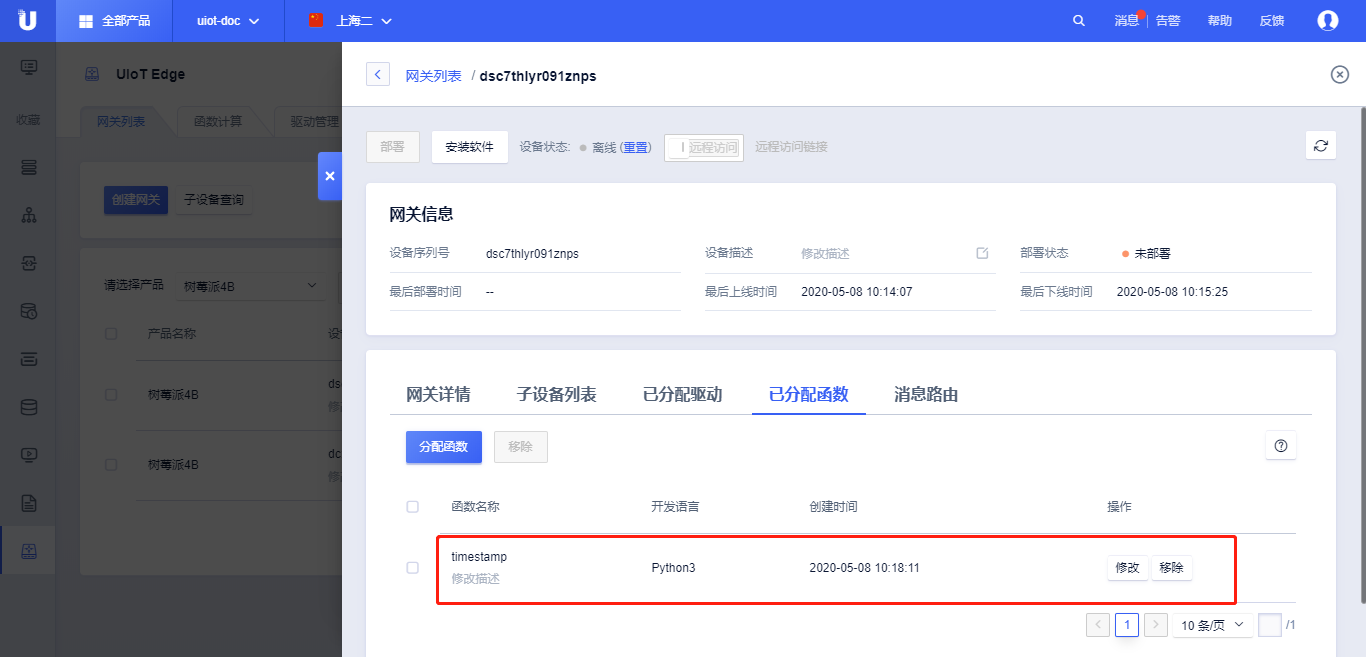
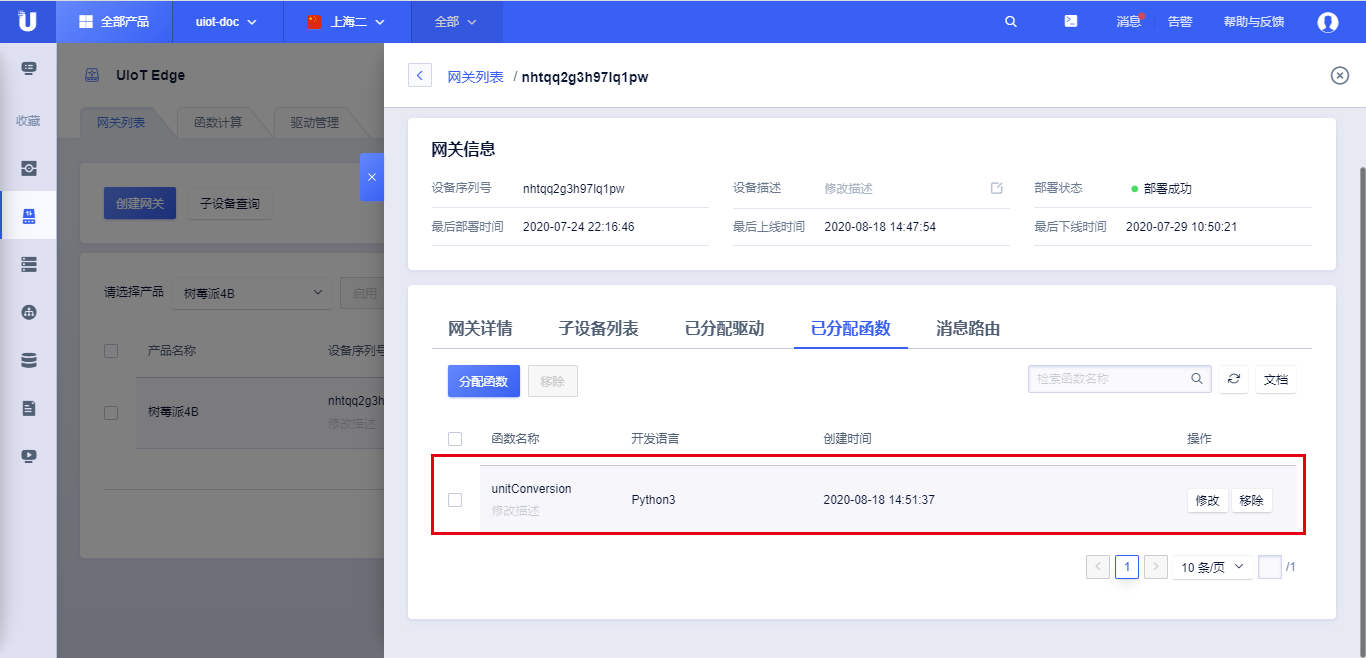
add images for dlt645 and best practice

diff --git a/best_practices/get_temp_humi_with_offical_modbus.md b/best_practices/get_temp_humi_with_offical_modbus.md
@@ -267,19 +267,21 @@
    
    """
    设备上云数据筛选示例
-   1. 子设备往函数计算发送一个 json 消息，格式如下
+   1. 根据驱动配置，函数计算收到子设备的json 消息，格式如下
    {
-       "temperature": 26.5,
-       "humidity": 68
+       "data":{
+       	temperature": 26.5,
+       	"humidity": 68
+       }
    }
-   表示 id 为 123456，温度为 120 摄氏度
    2. 函数计算根据条件筛选数据，实例中的筛选条件为
-   celsius > 100
+   temperature > 25
    3. 将摄氏度转换为华氏度
-   celsius -> fahrenheit
    {
-       "temperature": 79.7,
-       "humidity": 68
+       "data":{
+       	"temperature": 79.7,
+       	"humidity": 68
+       }
    }
    4. 注意，消息流转需要配置相应的消息路由
    """
@@ -290,19 +292,19 @@
    import logging
    
    
-   # 如果要使用 publish，需要先调用 EdgeClient 构造函数，初始化一个 client
+# 如果要使用 publish，需要先调用 EdgeClient 构造函数，初始化一个 client
    cli = function_sdk.EdgeClient()
-
+   
    def handler(event, context):
-    try:
+       try:
            # 获取消息 topic
            topic = event["topic"]
            # payload 为 bytes 类型，需解码为字符串
            msg = json.loads(event["payload"].decode('utf-8'))
    
-           if msg["temperature"] > 100:
+           if msg["data"]["temperature"] > 25:
                # 转换为华氏温标
-               msg["temperature"] = msg["temperature"] * 1.8 + 32
+               msg["data"]["temperature"] = msg["data"]["temperature"] * 1.8 + 32
                payload = json.dumps(msg).encode('utf-8')
                # 向指定 topic 发送消息
                cli.publish(topic, payload)
@@ -311,7 +313,7 @@
            logging.exception(context)
    ```
    
-   ![最佳实践添加时间戳](../images/最佳实践添加时间戳.png)
+   ![最佳实践添加时间戳](../images/最佳实践添加函数.png)
    
    ![最佳实践分配函数](../images/最佳实践分配函数.png)
    

diff --git a/edge_development/offical_driver/offical_dlt645_driver.md b/edge_development/offical_driver/offical_dlt645_driver.md
@@ -12,7 +12,7 @@ DL/T 645官方驱动目前支持数据的读取，用户通过自定义数据标
 
 使用官方DL/T 645驱动需要进行【驱动配置】和【子设备配置】。
 
-【驱动配置】：配置通道信息（/dev/ttyS0,9600,8N1 ...）、属性集合，对应DLT/645数据标识编码和上报json字段。
+【驱动配置】：配置通道信息（/dev/ttyS0,2400,8E1 ...）、属性集合，对应DLT/645数据标识编码和上报json字段。
 
 【子设备配置】：配置子设备所在通道及使用的属性集合。
 
@@ -123,15 +123,15 @@ DL/T 645官方驱动目前支持数据的读取，用户通过自定义数据标
 
 1. [参考分配驱动](/uiot-edge/user_guide/subdevice_driver_access/driver_allocate)分配官方驱动到当前网关
 
-   点击<已分配驱动> ，点击<分配驱动>，选择<官方>，选择<dlt645>，点击<分配>，点击<关闭>
+   点击<已分配驱动> ，点击<分配驱动>，选择<官方>，根据CPU架构，选择合适的<DLT645_2007>驱动，点击<分配>，点击<关闭>
 
-   ![官方驱动介绍流程1](../../images/官方驱动介绍流程1.png)
+   ![官方DLT645分配驱动](../../images/官方DLT645分配驱动.png)
 
 2. 修改驱动配置
 
    点击<驱动配置>
 
-   ![官方驱动介绍流程2](../../images/官方驱动介绍流程2.png)
+   ![官方DLT645驱动配置](../../images/官方DLT645驱动配置.png)
 
 3. 修改子设备配置
 
@@ -139,4 +139,4 @@ DL/T 645官方驱动目前支持数据的读取，用户通过自定义数据标
 
    配置完驱动配置或者子设备配置，子设备即可通过官方dlt645驱动接入。
 
-   ![官方驱动介绍流程3](../../images/官方驱动介绍流程3.png)
+   ![官方DLT645子设备配置](../../images/官方DLT645子设备配置.png)
